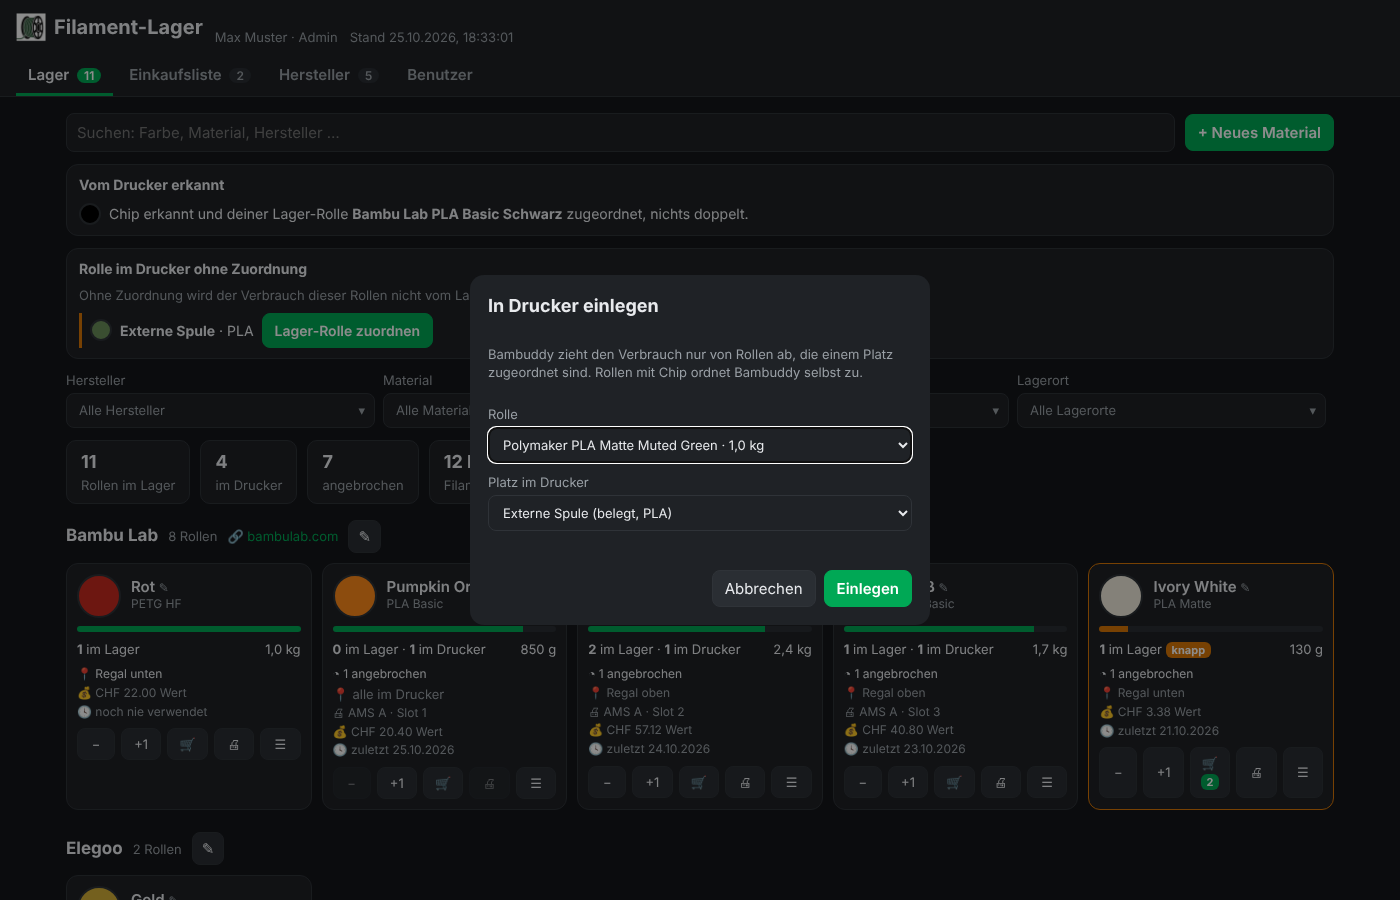
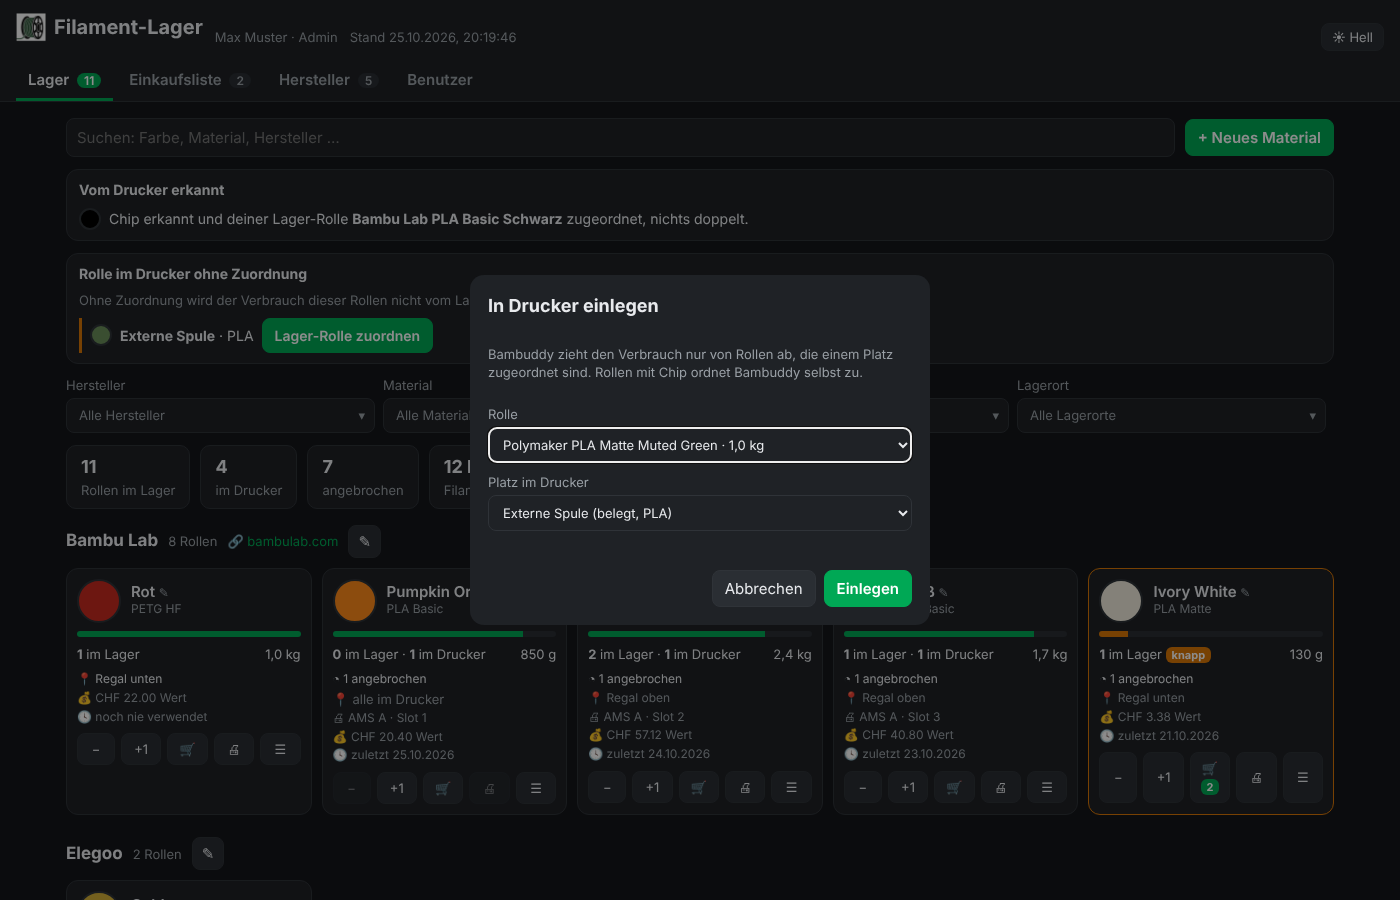
Add files via upload

diff --git a/filament_lager/www/app.js b/filament_lager/www/app.js
@@ -20,6 +20,18 @@ const VIEW = 1, ADD = 2, EDIT = 3, ADMIN = 4;
 const LEVELS = ["Kein Zugriff", "Ansehen", "Erfassen", "Bearbeiten", "Admin"];
 const can = (level) => (state.me?.level ?? 0) >= level;
 
+// Hell/Dunkel: pro Benutzer im Server gespeichert, damit es auf allen Geräten gleich aussieht.
+function setTheme(theme, save) {
+  theme = theme === "light" ? "light" : "dark";
+  document.documentElement.dataset.theme = theme;
+  $("#themeBtn").textContent = theme === "dark" ? "☀ Hell" : "🌙 Dunkel";
+  try { localStorage.setItem("theme", theme); } catch { /* egal */ }
+  if (save) api("api/me", { method: "POST", body: JSON.stringify({ theme }) }).catch(() => {});
+}
+
+$("#themeBtn").addEventListener("click", () => setTheme(document.documentElement.dataset.theme === "dark" ? "light" : "dark", true));
+setTheme(document.documentElement.dataset.theme);
+
 function applyRights() {
   document.body.classList.toggle("can-add", can(ADD));
   document.body.classList.toggle("can-edit", can(EDIT));
@@ -178,6 +190,7 @@ function cartFor(g) {
 async function load(quiet) {
   // Rechte bei jedem Abruf auffrischen, damit Änderungen durch den Admin ohne Neuladen greifen.
   const me = await api("api/me").catch(() => state.me);
+  if (me?.theme && me.theme !== document.documentElement.dataset.theme) setTheme(me.theme);
   if (me && me.level !== state.me?.level) {
     state.me = me;
     applyRights();
@@ -1235,6 +1248,7 @@ async function loadUsers() {
 // Start: erst die eigenen Rechte holen, dann die Daten.
 (async () => {
   state.me = await api("api/me").catch(() => ({ level: 0 }));
+  if (state.me.theme) setTheme(state.me.theme);
   applyRights();
   try {
     const saved = JSON.parse(localStorage.getItem("filter") || "{}");

diff --git a/filament_lager/www/index.html b/filament_lager/www/index.html
@@ -1,6 +1,7 @@
 <!doctype html>
-<html lang="de">
+<html lang="de" data-theme="dark">
 <head>
+<script>try { document.documentElement.dataset.theme = localStorage.getItem("theme") || "dark"; } catch (e) { /* bleibt dunkel */ }</script>
 <meta charset="utf-8">
 <meta name="viewport" content="width=device-width, initial-scale=1">
 <title>Filament-Lager</title>
@@ -13,6 +14,7 @@
     <h1><img src="icon.png" alt="" class="appIcon">Filament-Lager</h1>
     <span id="meInfo" class="muted"></span>
     <span id="updated" class="muted"></span>
+    <button id="themeBtn" class="themeBtn" type="button" title="Hell oder dunkel"></button>
   </div>
   <nav class="tabs">
     <button class="tab active" data-tab="stock">Lager <span id="stockCount" class="pill"></span></button>

diff --git a/filament_lager/www/style.css b/filament_lager/www/style.css
@@ -10,16 +10,17 @@
   --danger: #dc2626;
   --chip: #eceef1;
 }
-@media (prefers-color-scheme: dark) {
-  :root {
-    --bg: #15171a;
-    --card: #1f2226;
-    --text: #e8eaed;
-    --muted: #9aa0a6;
-    --border: #2f3338;
-    --chip: #2a2e33;
-  }
+/* Dunkel ist Standard; hell nur, wenn oben umgeschaltet. */
+:root[data-theme="dark"] {
+  --bg: #15171a;
+  --card: #1f2226;
+  --text: #e8eaed;
+  --muted: #9aa0a6;
+  --border: #2f3338;
+  --chip: #2a2e33;
+  color-scheme: dark;
 }
+.themeBtn { margin-left: auto; padding: 4px 10px; font-size: 13px; }
 * { box-sizing: border-box; }
 body {
   margin: 0;

diff --git a/filament_lager/server.py b/filament_lager/server.py
@@ -211,7 +211,9 @@ class Handler(BaseHTTPRequestHandler):
             return self.send(403, {"detail": "Dafür fehlt dir die Berechtigung", "level": self.user["level"]})
         try:
             if path == "/api/me":
-                return self.send(200, {"name": self.user["name"], "level": self.user["level"]})
+                if self.command == "POST":
+                    return self.save_theme()
+                return self.send(200, {"name": self.user["name"], "level": self.user["level"], "theme": self.user.get("theme")})
             if path == "/users":
                 return self.users()
             if path.startswith("/api/inventory/"):
@@ -287,6 +289,18 @@ class Handler(BaseHTTPRequestHandler):
             self.command, rel, body or None, self.headers.get("Content-Type")
         )
         self.send(status, data, ctype)
+
+    def save_theme(self):
+        # Hell/Dunkel je Home-Assistant-Benutzer merken, damit es auf allen Geräten gleich ist.
+        theme = (json.loads(self.read_body() or b"{}") or {}).get("theme")
+        if theme not in ("light", "dark"):
+            return self.send(400, {"detail": "Unbekanntes Design"})
+        if self.user.get("id"):
+            with USERS_LOCK:
+                users = load_users()
+                users.setdefault(self.user["id"], {})["theme"] = theme
+                save_users(users)
+        return self.send(200, {"theme": theme})
 
     def users(self):
         # Nur anzeigen: Rechte werden in der App-Konfiguration von Home Assistant vergeben.

diff --git a/README.md b/README.md
@@ -33,6 +33,7 @@ Bambuddy zählt den Filamentverbrauch deiner Bambu-Lab-Drucker automatisch mit, 
 - **Bestätigung**: jedes Ein- und Ausbuchen von Hand fragt vorher nach.
 - **Filter**: nach Hersteller, Material, Farbfamilie und Lagerort, jeweils mit Mehrfachauswahl.
 - **Benutzerrechte**: pro Home-Assistant-Benutzer einstellbar, wer nur schauen, erfassen oder auch bearbeiten darf.
+- **Hell oder dunkel**: standardmäßig dunkel, oben rechts umschaltbar. Die Wahl gilt pro Benutzer auf allen Geräten.
 - **Aktuell**: die Seite aktualisiert sich alle 15 Sekunden von selbst und funktioniert auch auf dem Handy und über Nabu Casa.
 
 ## Bilder

diff --git a/filament_lager/CHANGELOG.md b/filament_lager/CHANGELOG.md
@@ -1,5 +1,10 @@
 # Änderungen
 
+## 1.3.2
+
+- Dunkles Design ist Standard auf allen Geräten
+- Schalter Hell/Dunkel oben rechts, wird pro Home-Assistant-Benutzer gespeichert und gilt auf allen Geräten
+
 ## 1.3.1
 
 - Lagerplatz pro Rolle im Fenster „☰“ änderbar
